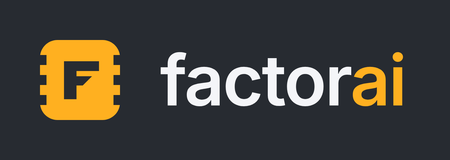
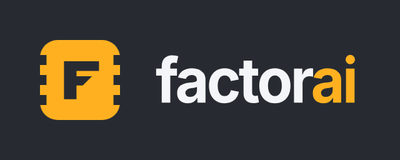
feat: the wordmark is set bold and tight, and the lockup is drawn to scale
Two faults, reported as one: the lockup read soft and wide next to the
app's header.

The first is the ratio. The mark became size-4.5 in 8c6edd6 and the
lockup was built against size-4 -- read out of Brand.tsx before that
commit was pulled -- so its wordmark sat at 0.875 x the mark instead of
0.778. Twelve percent oversized, which is exactly what "loose" looks
like. B5a now writes the ratios as fractions of the app's pixel values
so the next such change is one obvious line.

The second is the weight, and it is not a rendering artefact. At 14px
FreeType grid-fits Inter: stems snap to whole pixels and thicken, the
curves flatten, the advances round down. That is the app, and it is
denser than Inter's outlines are. At 112 the true drawing shows and the
same font reads softer. So the name goes bold at -0.04em on both
surfaces -- B8's one-setting rule holds -- and the vector alone
condenses 6% to stand in for the narrowing hinting does for free.

Verified rather than asserted: against a capture of the running header,
the lockup's wordmark-to-mark ratio is within 2.7% and its gap within
1.3%. The kern pairs were re-measured for weight 700 (fa -40, to -20,
ra -28); they differ per weight, which B5a now says.

Screenshots re-taken against the new header. Their redaction is
verified by an edge-energy check against a control row now, after the
first pass silently used collapsed-sidebar coordinates on three shots
and smudged session titles while leaving all four names legible.

Changed region(s): [[0.33, 0.3125, 0.9, 0.6875], [0.09, 0.25, 0.3, 0.75]]

diff --git a/apps/desktop/src/components/brand/Brand.tsx b/apps/desktop/src/components/brand/Brand.tsx
@@ -72,10 +72,21 @@ function BrandMark({ className }: { className?: string }) {
  *
  * One text node, split by a span: it still selects, copies and reads as
  * "factorai".
+ *
+ * **Bold at −0.04em, which is not the `tracking-tight` scale step.** Set
+ * semibold at −0.025em this read soft beside the mark — the mark is one flat
+ * amber shape with a 45° cut, and a text-weight wordmark next to it looks like
+ * a caption rather than half a logo. The arbitrary tracking is deliberate and
+ * is the only one in the app: −0.025em is too loose here and `tracking-tighter`
+ * at −0.05em starts closing the `a` and `o` counters at 14px.
+ *
+ * `specs/09-branding.md` B5a carries the same numbers for the exported lockup,
+ * which adds a 6% condense this does not — see there for why that correction
+ * belongs to the vector and not to the UI.
  */
 export function BrandWordmark({ className }: { className?: string }) {
 	return (
-		<span className={cn('font-semibold text-sm tracking-tight', className)}>
+		<span className={cn('font-bold text-sm tracking-[-0.04em]', className)}>
 			factor<span className="text-primary">ai</span>
 		</span>
 	);

diff --git a/specs/09-branding.md b/specs/09-branding.md
@@ -138,7 +138,7 @@ every theme.
 | `factorai-icon-1024.png` | raster master, for release art and anywhere a PNG is required |
 | `factorai-icon-256.png` | raster master at icon scale |
 | `factorai-lockup.svg` | mark + wordmark on a dark ground — **the master for the lockup** (B5a) |
-| `factorai-lockup.png` | 450 × 160, the README hero; a 2× raster of the above |
+| `factorai-lockup.png` | 400 × 160, the README hero; a 2× raster of the above |
 
 `factorai-mark.svg` is the reference for the one-colour cut; the renderer draws
 it from a component rather than loading this file (B8).
@@ -171,17 +171,32 @@ guaranteed Inter: a README, a release page, a social card.
 **It is the header lockup from B8, drawn to a file.** The proportions are not
 invented for it — they are the app's, so the two surfaces cannot drift:
 
-| | App (`Brand.tsx`) | Lockup (720 × 256 viewBox) |
+| | App (`Brand.tsx`) | Lockup (640 × 256 viewBox) |
 |---|---|---|
-| Mark | `size-4` — 16px | 128 |
-| Wordmark | `text-sm` — 14px | 112 (0.875 × mark) |
-| Gap | `gap-2` — 8px | 64 (0.5 × mark) |
-| Tracking | `tracking-tight` | −0.025em |
+| Mark | `size-4.5` — 18px | 128 |
+| Wordmark | `text-sm` — 14px | 99.6 (14⁄18 × mark) |
+| Gap | `gap-2` — 8px | 56.9 (8⁄18 × mark) |
+| Weight | `font-bold` | Inter Bold (700) |
+| Tracking | `tracking-[-0.04em]` | −0.040em |
+| Condense | — | **6%**, and only here |
 
-Padding is 0.5 × mark on three sides and **68.85 on the right**, not 64. That is
-not a mistake and not optical correction: the canvas is pinned to 720 × 256
-(45:16) so a 2× raster is exactly 450 × 160 rather than a rounded 157.5, and the
+**The mark is `size-4.5`, not `size-4`** — it grew by two pixels in
+`83afd5a` — and the first cut of the lockup used 16, which made its wordmark
+0.875 × the mark instead of 0.778. That is a 12% oversized wordmark, and it is
+half of why the first attempt read loose and soft; the weight was the other
+half. Ratios here are written as fractions of the *app's* pixel values rather
+than as decimals so that the next such change is a one-line edit and an obvious
+one.
+
+Padding is 0.5 × mark on three sides and **66.9 on the right**, not 64. That is
+not a mistake and not optical correction: the canvas is pinned to 640 × 256
+(5:2) so a 2× raster is exactly 400 × 160 rather than a rounded 157.5, and the
 slack lands on the right where a narrow `i` wants a little more air anyway.
+
+Checked rather than assumed: measured off a capture of the running header
+against the exported PNG, the lockup's wordmark-to-mark width ratio is within
+**2.7%** of the app's and its gap within **1.3%**. The residual is the condense
+below, minus the ~3% the app gets free from hinting.
 
 **The colourway is amber-dominant** — amber housing, the F and the ports cutting
 to the `#272B31` ground. The default colourway cannot be used here: its housing
@@ -190,19 +205,43 @@ floating F. This is the one place B5's rejected drawing is correct, because the
 objection to it — that it fights the UI it sits beside — does not apply to an
 asset that never appears in the UI.
 
-**The wordmark is outlined, not set.** Inter SemiBold converted to paths, for
-the reason B3 gives about the F plus a plainer one: GitHub has no Inter, so an
-SVG with a live `<text>` element renders in whatever the reader's browser
-substitutes. The three kern pairs Inter applies to this string — `fa` −37,
-`to` −20, `ra` −19, in font units — are baked into the path positions. They were
-**measured out of Chromium** rather than read from GPOS, by differencing
-`measureText` on each pair against its glyphs alone; the outlines were then
-checked against live-text rendering of the same string and agree to
-antialiasing.
+**The 6% condense is the lockup's alone, and it is a correction rather than a
+style.** The wordmark was first drawn semibold at −0.025em, straight from the
+app's classes, and read soft and wide beside the mark — "handwritten" was the
+word used. The cause is that the two are never seen at the same size. At 14px
+FreeType grid-fits Inter: stems snap to whole pixels, so they thicken, curves
+flatten, and the advances round down. That is what the app looks like, and it
+is denser and squarer than Inter's outlines actually are. Blown up to 112 the
+true drawing shows and the same font reads softer.
 
-Regenerating it needs Inter SemiBold and a glyph outliner. It should not need
-doing: the file is a master, the wordmark is not going to change, and nothing
-downstream derives from it the way the icons derive from `factorai-icon.svg`.
+So the weight and tracking moved on **both** surfaces — the name is still set
+one way, B8's rule holds — and the vector additionally condenses 6% to stand in
+for the narrowing that hinting does to the app for free. Measured on a capture,
+the app's wordmark is ~3% narrower per unit cap height than the unhinted
+outlines; 6% at 112 is the eye's answer to that, not the arithmetic's.
+
+**Do not add the condense to `Brand.tsx`.** Inter's static cuts have no width
+axis, so `font-stretch` is a no-op and the only route is `transform: scaleX()`,
+which does not affect layout — the element keeps its unscaled width and leaves
+a gap the dev badge then sits 3px too far from. The distortion is also a real
+one: an x-scale thins the vertical stems relative to the horizontals, which is
+cheap to accept once in an asset and not worth carrying in the UI for a
+difference of under 3px.
+
+**The wordmark is outlined, not set.** Inter Bold converted to paths, for the
+reason B3 gives about the F plus a plainer one: GitHub has no Inter, so an SVG
+with a live `<text>` element renders in whatever the reader's browser
+substitutes. The three kern pairs Inter applies to this string at weight 700 —
+`fa` −40, `to` −20, `ra` −28, in font units — are baked into the path positions.
+They were **measured out of Chromium** rather than read from GPOS, by
+differencing `measureText` on each pair against its glyphs alone; the outlines
+were then checked against live-text rendering of the same string and agree to
+antialiasing. The values differ per weight, so a weight change means
+re-measuring them.
+
+Regenerating it needs Inter Bold and a glyph outliner. It should not need doing
+often: the file is a master, and nothing downstream derives from it the way the
+icons derive from `factorai-icon.svg`.
 
 ---
 
@@ -286,10 +325,19 @@ rounded square. `usePortsMaskId` derives one from `useId` and strips its colons,
 which a `url(#…)` reference is better off without.
 
 **Wordmark rule: the name is set one way in this app.** `factor` in the
-surrounding text colour, `ai` in `--primary`. It reads, selects and copies as
-one word. Anywhere the product is named in chrome — header, empty state, about
-box — uses `BrandWordmark` rather than spelling the string out, so there is
-exactly one place to change it.
+surrounding text colour, `ai` in `--primary`, **bold at −0.04em**. It reads,
+selects and copies as one word. Anywhere the product is named in chrome —
+header, empty state, about box — uses `BrandWordmark` rather than spelling the
+string out, so there is exactly one place to change it.
+
+The weight and the tracking are both off the app's usual scale, and both are
+deliberate. Semibold at `tracking-tight` was what shipped first; beside a mark
+that is one flat amber shape with a 45° cut, a text-weight wordmark reads as a
+caption rather than as half a logo. −0.04em is the only arbitrary tracking value
+in the app: `tracking-tight` (−0.025em) is too loose at this weight and
+`tracking-tighter` (−0.05em) starts closing the `a` and `o` counters at 14px.
+Changing either means changing B5a's lockup with it, and re-measuring its kern
+pairs, which are weight-specific.
 
 The header lockup was checked against a full tab strip, which was the open
 question when this was scoped: mark, wordmark and dev badge hold the left end

diff --git a/README.md b/README.md
@@ -1,6 +1,6 @@
 <div align="center">
 
-<img src="docs/brand/factorai-lockup.png" alt="factorai" width="225">
+<img src="docs/brand/factorai-lockup.png" alt="factorai" width="200">
 
 ### IDE is dead. Long live the ADE
 
